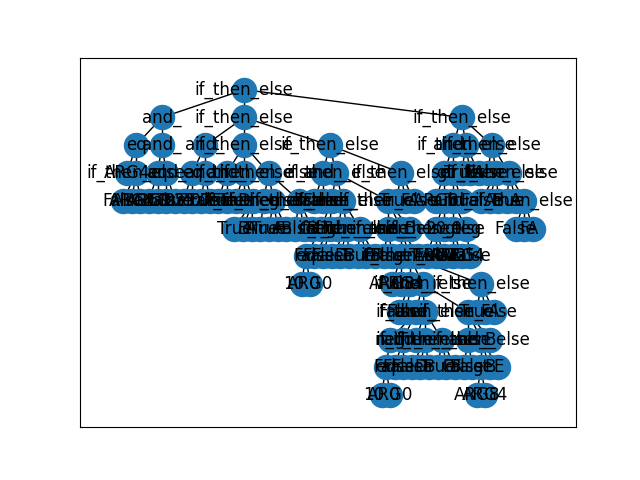
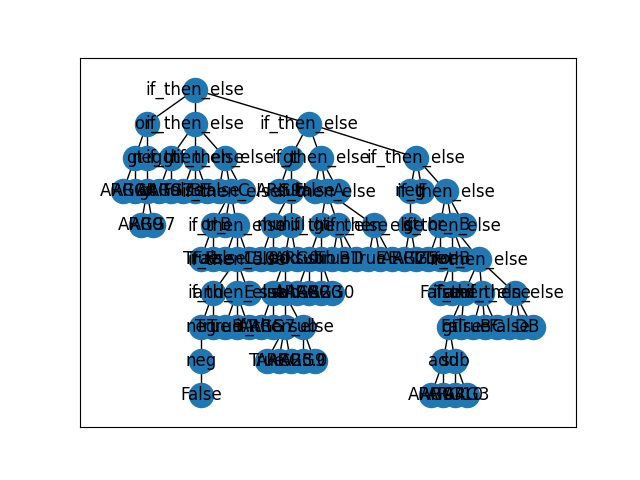
Reached fitness 450. Refactored main for longer runs.

Changed region(s): [[0.125, 0.1562, 0.9062, 0.875]]

diff --git a/main.py b/main.py
@@ -26,7 +26,7 @@ import traceback
 from gp_train import AgentSimulator, if_then_else, Output, A, B, C, D, E, F
 
 
-def simulate_game(show_game, net=None, program=None, routine=None):
+def simulate_game(show_game, name="", net=None, program=None, routine=None):
     gamerun.show_game = show_game
     if gamerun.show_game:
         pygame.init()
@@ -38,7 +38,7 @@ def simulate_game(show_game, net=None, program=None, routine=None):
         screen_width = 700
         screen_height = 550
         win = pygame.display.set_mode((screen_width, screen_height))
-        pygame.display.set_caption('NEAT Spaceship!')
+        pygame.display.set_caption(name)
 
     else:
         win = None
@@ -189,8 +189,9 @@ def save_best_gp(program):
         plot_utils.plotTrends(logbook, "best", 'results/best')
 
 
+GP_NRUNS = 10                   # number of runs for GP
 GP_POP_SIZE = 100               # population size for GP
-GP_NGEN = 50                    # number of generations for GP
+GP_NGEN = 100                   # number of generations for GP
 GP_CXPB, GP_MUTPB = 0.5, 0.5    # crossover and mutation probability for GP
 GP_TRNMT_SIZE = 7               # tournament size for GP
 GP_HOF_SIZE = 2                 # size of the Hall-of-Fame for GP
@@ -239,7 +240,7 @@ if __name__ == "__main__":
             network = neat.nn.FeedForwardNetwork.create(genome, config)
 
             # Simulate the game with the winning network and showing it.
-            best_fitness = simulate_game(show_game=True, net=network)
+            best_fitness = simulate_game(show_game=True, name="NEAT Spaceship!", net=network)
             print(f"\nBest fitness simulation:\n{best_fitness}")
 
             save_best_neat(genome, network)
@@ -266,13 +267,13 @@ if __name__ == "__main__":
                     # Display the winning genome.
                     print(f"\nBest genome:\n{genome}")
 
-                    # Store best fitness for statistical analysis.
-                    best_fitnesses.append(genome.fitness)
-
                     # Create the winning network.
                     network = neat.nn.FeedForwardNetwork.create(genome, config)
 
                     save_best_neat(genome, network)
+
+                    # Store best fitness for statistical analysis.
+                    best_fitnesses.append(genome.fitness)
 
             except Exception as e:
                 print(e)
@@ -289,7 +290,7 @@ if __name__ == "__main__":
         if network is None:
             print("network not present")
         else:
-            simulate_game(show_game=True, net=network)
+            simulate_game(show_game=True, name="NEAT Spaceship!", net=network)
             pygame.quit()
 
     if args.gp or args.run_best_gp:
@@ -335,7 +336,7 @@ if __name__ == "__main__":
         pset.addTerminal(True, bool)
         pset.addTerminal(False, bool)
 
-        # # TODO probably we should teach the program how to use the terminal set (if it does not manage to learn it by itself)
+        # TODO probably we should teach the program how to use the terminal set (if it does not manage to learn it by itself)
         # pset.addTerminal(f1)
         # pset.addTerminal(f2)
         # pset.addTerminal(f3)
@@ -360,7 +361,7 @@ if __name__ == "__main__":
             toolbox = base.Toolbox()
 
             # Attribute generator
-            toolbox.register("expr_init", gp.genFull, pset=pset, min_=1, max_=5)
+            toolbox.register("expr_init", gp.genFull, pset=pset, min_=1, max_=3)
             # Structure initializers
             toolbox.register("individual", tools.initIterate, creator.Individual, toolbox.expr_init)
             toolbox.register("population", tools.initRepeat, list, toolbox.individual)
@@ -369,26 +370,61 @@ if __name__ == "__main__":
             toolbox.register("mate", gp.cxOnePoint)
             toolbox.register("expr_mut", gp.genFull, min_=0, max_=2)
             toolbox.register("mutate", gp.mutUniform, expr=toolbox.expr_mut, pset=pset)
-            pop = toolbox.population(n=GP_POP_SIZE)
-            hof = tools.HallOfFame(GP_HOF_SIZE)
-            stats = tools.Statistics(lambda ind: ind.fitness.values)
-            stats.register("avg", numpy.mean)
-            stats.register("std", numpy.std)
-            stats.register("min", numpy.min)
-            stats.register("max", numpy.max)
 
-            try:
-                final_pop, logbook = algorithms.eaSimple(pop, toolbox, GP_CXPB, GP_MUTPB, GP_NGEN, stats, halloffame=hof)
-            except Exception as e:
-                print(e)
+            if GP_NRUNS == 1:
+                pop = toolbox.population(n=GP_POP_SIZE)
+                hof = tools.HallOfFame(GP_HOF_SIZE)
+                stats = tools.Statistics(lambda ind: ind.fitness.values)
+                stats.register("avg", numpy.mean)
+                stats.register("std", numpy.std)
+                stats.register("min", numpy.min)
+                stats.register("max", numpy.max)
 
-            print("Best individual GP is: %s, with fitness: %s" % (hof[0], hof[0].fitness.values))
-            save_best_gp(hof[0])  # TODO control the size of the tree
+                try:
+                    final_pop, logbook = algorithms.eaSimple(pop, toolbox, GP_CXPB, GP_MUTPB, GP_NGEN, stats, halloffame=hof)
+                except Exception as e:
+                    print(e)
 
-            # Run the best routine
-            routine = gp.compile(hof[0], pset)
-            simulate_game(show_game=True, program=agent, routine=routine)
-            pygame.quit()
+                print("Best individual GP is: %s, with fitness: %s" % (hof[0], hof[0].fitness.values[0]))
+                save_best_gp(hof[0])  # TODO control the size of the tree
+
+                # Run the best routine
+                routine = gp.compile(hof[0], pset)
+                simulate_game(show_game=True, name="GP Spaceship!", program=agent, routine=routine)
+                pygame.quit()
+
+            else:
+                results = []
+                best_fitnesses = []
+                try:
+                    for i in range(GP_NRUNS):
+                        print(f"run {i + 1}/{GP_NRUNS}")
+
+                        pop = toolbox.population(n=GP_POP_SIZE)
+                        hof = tools.HallOfFame(GP_HOF_SIZE)
+                        stats = tools.Statistics(lambda ind: ind.fitness.values)
+                        stats.register("avg", numpy.mean)
+                        stats.register("std", numpy.std)
+                        stats.register("min", numpy.min)
+                        stats.register("max", numpy.max)
+
+                        final_pop, logbook = algorithms.eaSimple(pop, toolbox, GP_CXPB, GP_MUTPB, GP_NGEN, stats, halloffame=hof)
+                        print("Best individual GP is: %s, with fitness: %s" % (hof[0], hof[0].fitness.values[0]))
+
+                        save_best_gp(hof[0])
+
+                        # Store best fitness for statistical analysis.
+                        best_fitnesses.append(hof[0].fitness.values[0])
+
+                except Exception as e:
+                    print(e)
+
+                results.append(best_fitnesses)
+                fig = figure("GP-Spaceship")
+                ax = fig.gca()
+                ax.boxplot(results)
+                ax.set_ylabel("Best fitness")
+                show()
 
         if args.run_best_gp:
             # Run the best routine
@@ -396,6 +432,6 @@ if __name__ == "__main__":
             if program is None:
                 print("program not present")
             else:
-                routine = gp.compile(program, pset)
-                simulate_game(show_game=True, program=agent, routine=routine)
+                routine = gp.compile(program, pset)  # TODO store also the routine and avoid to re-compile it again
+                simulate_game(show_game=True, name="GP Spaceship!", program=agent, routine=routine)
                 pygame.quit()
